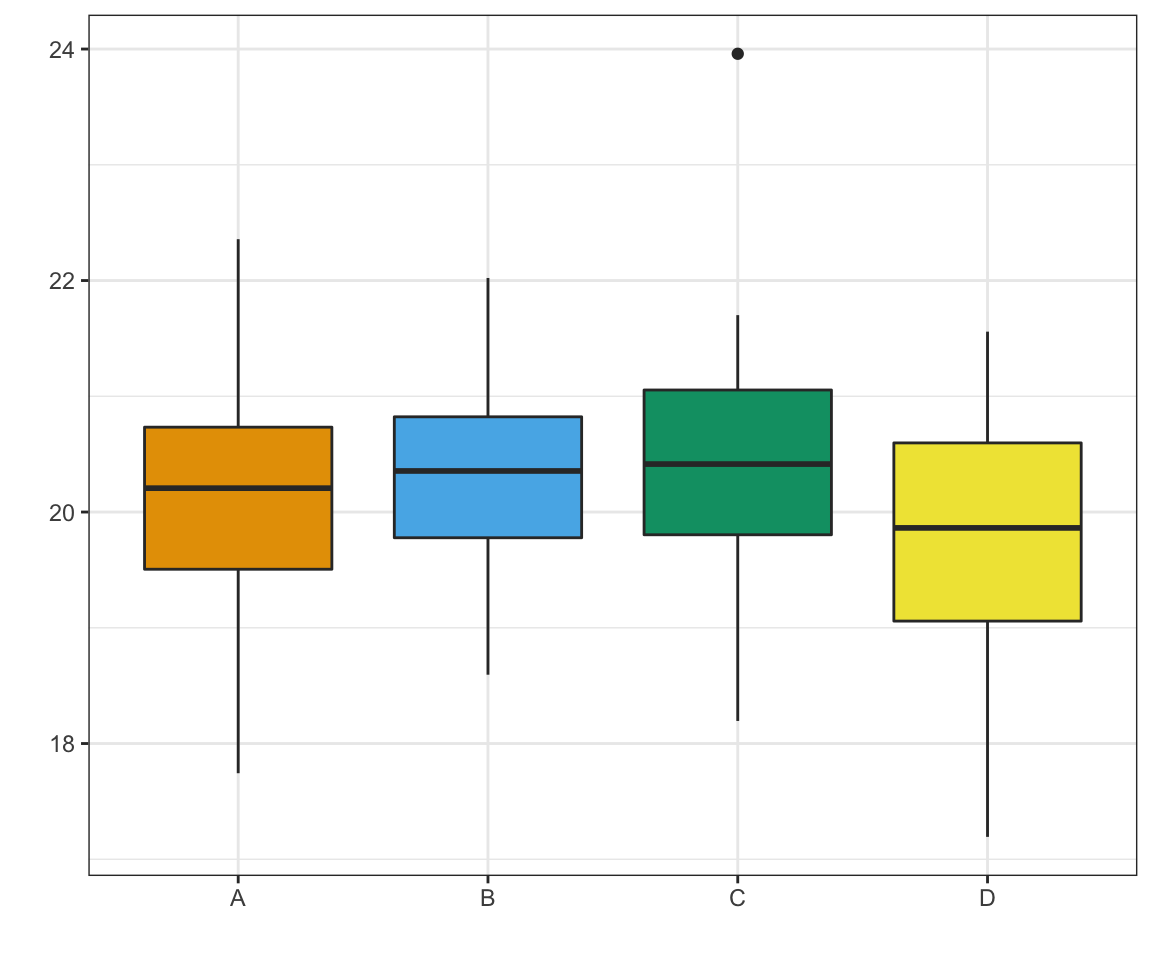
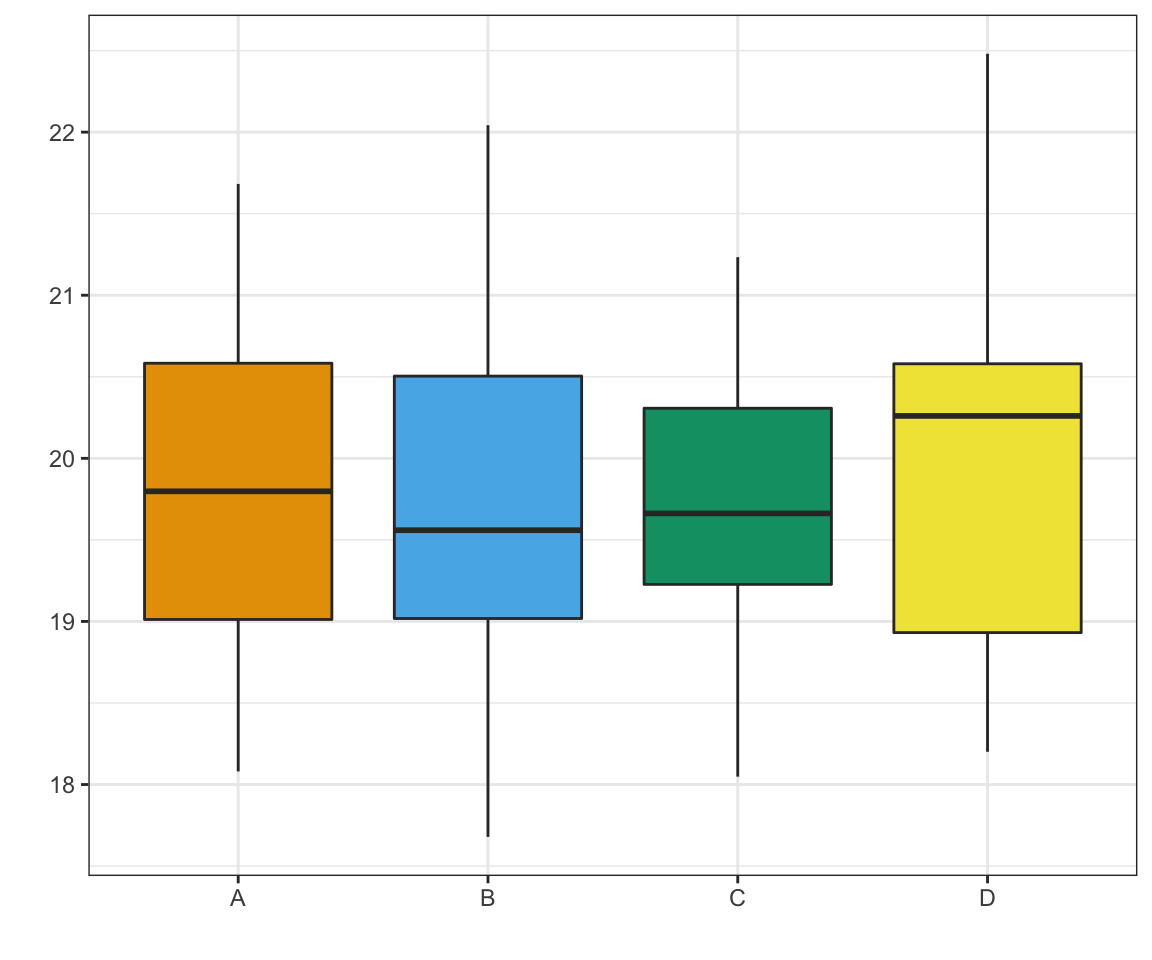
added text

diff --git a/docs/stat-tests-anova.html b/docs/stat-tests-anova.html
@@ -586,7 +586,7 @@ code span.wa { color: #60a0b0; font-weight: bold; font-style: italic; } /* Warni
 </header><div class="cell">
 
 </div>
-<p><em>Version vom November 21, 2022 um 09:40:26</em></p>
+<p><em>Version vom November 22, 2022 um 08:28:26</em></p>
 <div class="page-columns page-full"><p></p><div class="no-row-height column-margin column-container"><span class="aside">Historisch betrachtet ist die ANOVA, <em>das</em> statistische Verfahren was gut per Hand ohne Computer berechnet werden kann. Daher war die ANOVA von den 20zigern bis in die frühen 90ziger des letzten Jahrhunderts <em>das</em> statistische Verfahren der Wahl.</span></div></div>
 <p>Die ANOVA (eng. <em>analysis of variance</em>) ist wichtig. Was für ein schöner Satz um anzufangen. Wir brauchen die ANOVA aus mehreren Gründen. Die Hochzeiten der ANOVA sind eigentlich vorbei, wir haben in der Statistik für viele Fälle mittlerweile besser Werkzeuge, aber als Allrounder ist die ANOVA immer noch nutzbar. Wir werden immer wieder auf die ANOVA inhaltlich zurück kommen und in vielen Abschlussarbeiten wird die ANOVA immer noch als integraler Bestandteil genutzt.</p>
 
@@ -1369,6 +1369,26 @@ Entscheidung mit der berechneten Teststatistik <span class="math inline">\(F_{\b
 <p><strong>Achtung –</strong> Wir nutzen die Entscheidung mit der Teststatistik <em>nur und ausschließlich</em> in der Klausur. In der praktischen Anwendung hat die Betrachtung der berechneten Teststatistik <em>keine</em> Verwendung mehr. Wir nutzen in der praktischen Anwendung den <span class="math inline">\(p\)</span>-Wert.</p>
 </div>
 </div>
+<p>Abschließend noch ein Wort zu der Annahme an eine ANOVA. Wir wollen ja für eine ANOVA ein normalverteiltes Outcome <span class="math inline">\(y\)</span> und die gleichen Varianzen über alle Gruppen. Wir wollen Varianzhomogenität vorliegen haben. In <a href="#fig-anova-assumption">Abbildung&nbsp;<span>23.5</span></a> siehst du vier Behandlungsgruppen sowie deren lokale Mittel. Die Gruppe D hat eine sehr viel größere Varianz. Auch ist fraglich, ob die Gruppe D einer Normalverteilung folgt. Dadurch passieren zwei Dinge. Erstens ist der lokale Mittelwert von der Gruppe D viel näher am globalen Mittel als er eigentlich wäre, dadurch wird die <em>Summe</em> aus <span class="math inline">\(MS_{treatment}\)</span> kleiner. Zweitens sind die Beobachtungen sehr weit um das lokale Mittel gestreut, dadurch wird die <em>Summe</em> aus <span class="math inline">\(MS_{error}\)</span> viel größer. Wir erhalten dadurch eine sehr viel kleinere F Statistik. Im Prinzip vergleichst du mit einer ANOVA ein Set an gleich aussehenden Normalverteilungen. Wenn alles schief und krumm ist, dann ist es vermutlich sogar besser, als wenn wir eine total verkorkste Gruppenverteilung haben, wie hier in Beispiel D.</p>
+<div class="page-columns page-full"><p></p><div class="no-row-height column-margin column-container"><span class="aside">In <a href="eda-transform.html"><span>Kapitel&nbsp;17</span></a> kannst du nochmal über die <span class="math inline">\(\log\)</span>-Transformation vom Outcome <span class="math inline">\(y\)</span> nachlesen. Nach der <span class="math inline">\(\log\)</span>-Transformation können Daten dann <em>approximativ</em> normalverteilt sein.</span></div></div>
+<div id="fig-anova-assumption" class="quarto-figure quarto-figure-center anchored">
+<figure class="figure"><p><img src="images/anova-assumptions.png" class="img-fluid figure-img" style="width:100.0%"></p>
+<p></p><figcaption aria-hidden="true" class="figure-caption">Abbildung 23.5— Visualisierung der Annahmen an eine ANOVA. Wir berechnen den <span class="math inline">\(MS_{treatment}\)</span> in dem wir alle Abweichungen vom gloablen Mittel <span class="math inline">\(\bar{y}_{..}\)</span> aufaddieren. Ebenso berechnen wir den <span class="math inline">\(MS_{error}\)</span> indem wir die einzelen Abweichungen von den Bobachtungen zu den lokalen Mitteln berechnen. Hat jetzt eine Gruppe, wie die Gruppe D, eine abweichende Streuung, wird das <span class="math inline">\(MS_{error}\)</span> überproportional groß. Damit wird dann die F Statistik klein.</figcaption><p></p>
+</figure>
+</div>
+<p>Wir können das einmal numerisch mit einem kritischen Wert für <span class="math inline">\(F_{\alpha = 5\%} = 3.55\)</span> durchspielen. Nehmen wir folgende Summe für <span class="math inline">\(MS_{treatment}\)</span> aus den einzelnen <span class="math inline">\(MS\)</span> einmal an. Wir sehen dabei das die Gruppe F einen <span class="math inline">\(MS_D = 7\)</span> hat. Dieser Wert ist vermutlich zu klein.</p>
+<p><span class="math display">\[
+MS_{treatment} = 10 + 20 + 8 + 7 = 45
+\]</span></p>
+<p>Wenn wir jetzt die Summe für <span class="math inline">\(MS_{error}\)</span> berechnen, wird diese Summe sehr große, da die Gruppe D eine sehr große Varianz mit einbringt.</p>
+<p><span class="math display">\[
+MS_{error} = 5 + 6 + 4 + 20 = 35
+\]</span></p>
+<p>Das führt am Ende dazu, dass wir eine sehr kleine F Statistik erhalten. Auch wenn sich vielleicht Gruppe B von Gruppe C unterscheidet, können wir den Unterschied wegen der großen Varianz aus Gruppe D nicht nachweisen.</p>
+<p><span class="math display">\[
+F = \cfrac{MS_{treatment}}{MS_{error}} = \cfrac{45}{35} = 1.28 \leq 3.55
+\]</span></p>
+<p>Du siehst hier wie wichtig es ist, ich die Daten einmal zu visualisieren um zu sehen vorher mögliche Probleme herrühren können. Auf der anderen Seite können wir die ANOVA auf ein Recht breites Spektrum an Daten anwenden, solange wir wissen, das die Verteilungen in etwa für jede Gruppe gleich aussehen. Wir müssen nur mit dem <span class="math inline">\(\eta^2\)</span> aufpassen, wenn wir zu schiefe Verteilungen haben. Dann gibt uns <span class="math inline">\(\eta^2\)</span> keine valide Aussage mehr über den Anteil der erklärten Varianz.</p>
 </section><section id="einfaktoriellen-anova-in-r" class="level3 page-columns page-full" data-number="23.2.4"><h3 data-number="23.2.4" class="anchored" data-anchor-id="einfaktoriellen-anova-in-r">
 <span class="header-section-number">23.2.4</span> Einfaktoriellen ANOVA in R</h3>
 <div class="page-columns page-full"><p></p><div class="no-row-height column-margin column-container"><span class="aside">Um eine ANOVA zu rechnen nutzen wir <em>zuerst</em> die Funktion <code><a href="https://rdrr.io/r/stats/lm.html">lm()</a></code>, warum das so ist kannst du im <a href="stat-linear-reg-basic.html"><span>Kapitel&nbsp;32</span></a> nachlesen. Du brauchst das Wissen aber hier nicht unbedingt.</span></div></div>
@@ -1391,12 +1411,12 @@ Signif. codes:  0 '***' 0.001 '**' 0.01 '*' 0.05 '.' 0.1 ' ' 1</code></pre>
 </div>
 <p>Wir erhalten die Information was wir gerechnet haben, eine Varianzanalyse. Darunter steht, was das <span class="math inline">\(y\)</span> war nämlich die <code>jump_length</code>. Wir erhalten eine Zeile für den Faktor <code>animal</code> und damit die <span class="math inline">\(SS_{animal}\)</span> und eine Zeile für den Fehler und damit den <span class="math inline">\(SS_{error}\)</span>. In R heißen die <span class="math inline">\(SS_{error}\)</span> dann <code>Residuals</code>. Die Zeile für die <span class="math inline">\(SS_{total}\)</span> fehlt.</p>
 <p>Neben der berechneten F Statistik <span class="math inline">\(F_{calc}\)</span> von <span class="math inline">\(11.89\)</span> erhalten wir auch den p-Wert mit <span class="math inline">\(0.005\)</span>. Wir ignorieren die F Statistik, da wir in der Anwendung nur den p-Wert berücksichtigen. Die Entscheidung gegen die Nulhypothese lautet, dass wenn der p-Wert kleiner ist als das Signifkanzniveau <span class="math inline">\(\alpha\)</span> von 5% wir die Nullhypothese ablehnen.</p>
-<p>Wir haben hier ein signifikantes Ergebnis vorliegen. Mindestens ein Gruppenmittelerstunterschied ist signifikant. <a href="#fig-boxplot-anova-1">Abbildung&nbsp;<span>23.5</span></a> zeigt nochmal die Daten <code>fac1_tbl</code> als Boxplot. Wir überprüfen visuell, ob das Ergebnis der ANOVA stimmen kann. Ja, die Boxplots und das Ergebnis der ANOVA stimmen überein. Die Boxplots liegen nicht alle auf einer Ebene, so dass hier auch ein signifikanter Unterschied zu erwarten war.</p>
+<p>Wir haben hier ein signifikantes Ergebnis vorliegen. Mindestens ein Gruppenmittelerstunterschied ist signifikant. <a href="#fig-boxplot-anova-1">Abbildung&nbsp;<span>23.6</span></a> zeigt nochmal die Daten <code>fac1_tbl</code> als Boxplot. Wir überprüfen visuell, ob das Ergebnis der ANOVA stimmen kann. Ja, die Boxplots und das Ergebnis der ANOVA stimmen überein. Die Boxplots liegen nicht alle auf einer Ebene, so dass hier auch ein signifikanter Unterschied zu erwarten war.</p>
 <div class="cell" data-layout-align="center">
 <div class="cell-output-display">
 <div id="fig-boxplot-anova-1" class="quarto-figure quarto-figure-center anchored">
 <figure class="figure"><p><img src="stat-tests-anova_files/figure-html/fig-boxplot-anova-1-1.png" class="img-fluid figure-img" width="480"></p>
-<p></p><figcaption aria-hidden="true" class="figure-caption">Abbildung 23.5— Boxplot der Sprungweiten [cm] von Hunden-, Katzen- und Fuchsflöhen.</figcaption><p></p>
+<p></p><figcaption aria-hidden="true" class="figure-caption">Abbildung 23.6— Boxplot der Sprungweiten [cm] von Hunden-, Katzen- und Fuchsflöhen.</figcaption><p></p>
 </figure>
 </div>
 </div>
@@ -1510,12 +1530,12 @@ Einführung in die zweifaktorielle ANOVA per Video
 </div>
 </div>
 </div>
-<p>Die Beispieldaten sind in <a href="#fig-boxplot-anova-2">Abbildung&nbsp;<span>23.6</span></a> abgebildet. Wir sehen auf der x-Achse den Faktor <code>animal</code> mit den drei Leveln <code>dog</code>, <code>cat</code> und <code>fox</code>. Jeder dieser Faktorlevel hat nochmal einen Faktor in sich. Dieser Faktor lautet <code>site</code> und stellt dar, wo die Flöhe gesammelt wurden. Die vier Level des Faktors <code>site</code> sind <code>city</code>, <code>smalltown</code>, <code>village</code> und <code>field</code>.</p>
+<p>Die Beispieldaten sind in <a href="#fig-boxplot-anova-2">Abbildung&nbsp;<span>23.7</span></a> abgebildet. Wir sehen auf der x-Achse den Faktor <code>animal</code> mit den drei Leveln <code>dog</code>, <code>cat</code> und <code>fox</code>. Jeder dieser Faktorlevel hat nochmal einen Faktor in sich. Dieser Faktor lautet <code>site</code> und stellt dar, wo die Flöhe gesammelt wurden. Die vier Level des Faktors <code>site</code> sind <code>city</code>, <code>smalltown</code>, <code>village</code> und <code>field</code>.</p>
 <div class="cell" data-layout-align="center">
 <div class="cell-output-display">
 <div id="fig-boxplot-anova-2" class="quarto-figure quarto-figure-center anchored">
 <figure class="figure"><p><img src="stat-tests-anova_files/figure-html/fig-boxplot-anova-2-1.png" class="img-fluid figure-img" width="576"></p>
-<p></p><figcaption aria-hidden="true" class="figure-caption">Abbildung 23.6— Boxplot der Sprungweiten [cm] von Hunden und Katzen.</figcaption><p></p>
+<p></p><figcaption aria-hidden="true" class="figure-caption">Abbildung 23.7— Boxplot der Sprungweiten [cm] von Hunden und Katzen.</figcaption><p></p>
 </figure>
 </div>
 </div>
@@ -1787,7 +1807,7 @@ site      |           0.02 | [0.00, 1.00]
 jump\_length \sim animal + site + animal:site
 \]</span></p>
 <p>Wir bauen nun mit der obigen Formel ein lineares Modell mit der Funktion <code><a href="https://rdrr.io/r/stats/lm.html">lm()</a></code> in R. Es wieder das gleich wie schon zuvor. Danach pipen wir das Modell in die Funktion <code><a href="https://rdrr.io/r/stats/anova.html">anova()</a></code> wie auch in der einfaktoriellen Variante der ANOVA. Die Funktion bleibt die Gleiche, was sich ändert ist das Modell in der Funktion <code><a href="https://rdrr.io/r/stats/lm.html">lm()</a></code>. Auch die Interaktion müssen wir nicht extra in der ANOVA Funktion angeben. Alles wird im Modell des <code><a href="https://rdrr.io/r/stats/lm.html">lm()</a></code> abgebildet.</p>
-<p>Die visuelle Regel zur Überprüfung der Interaktion lautet nun wie folgt. <a href="#fig-anova-inter-example">Abbildung&nbsp;<span>23.7</span></a> zeigt die entsprechende Vislualisierung. Wir haben keine Interaktion vorliegen, wenn die Geraden parallel zueinander laufen und die Abstände bei bei jedem Faktorlevel gleich sind. Wir schauen uns im Prinzip die erste Faktorstufe auf der x-Achse an. Wir sehen den Abstand von der roten zu blauen Linie sowie das die blaue Gerade über der roten Gerade liegt. Dieses Muster erwarten wir jetzt auch an dem Faktorlevel B und C. Eine leichte bis mittlere Interaktion liegt vor, wenn sich die Abstände von dem zweiten Faktor über die Faktorstufen des ersten Faktors ändern. Eine starke Interaktion liegt vor, wenn sich die Geraden schneiden.</p>
+<p>Die visuelle Regel zur Überprüfung der Interaktion lautet nun wie folgt. <a href="#fig-anova-inter-example">Abbildung&nbsp;<span>23.8</span></a> zeigt die entsprechende Vislualisierung. Wir haben keine Interaktion vorliegen, wenn die Geraden parallel zueinander laufen und die Abstände bei bei jedem Faktorlevel gleich sind. Wir schauen uns im Prinzip die erste Faktorstufe auf der x-Achse an. Wir sehen den Abstand von der roten zu blauen Linie sowie das die blaue Gerade über der roten Gerade liegt. Dieses Muster erwarten wir jetzt auch an dem Faktorlevel B und C. Eine leichte bis mittlere Interaktion liegt vor, wenn sich die Abstände von dem zweiten Faktor über die Faktorstufen des ersten Faktors ändern. Eine starke Interaktion liegt vor, wenn sich die Geraden schneiden.</p>
 <div id="fig-anova-inter-example" class="cell column-page quarto-layout-panel">
 <figure class="figure"><div class="quarto-layout-row quarto-layout-valign-top">
 <div class="cell-output-display quarto-layout-cell quarto-layout-cell-subref" style="flex-basis: 33.3%;justify-content: center;">
@@ -1812,10 +1832,10 @@ jump\_length \sim animal + site + animal:site
 </div>
 </div>
 </div>
-<p></p><figcaption aria-hidden="true" class="figure-caption">Abbildung 23.7— Darstellung von keiner Interaktion, leichter bis mittler Interaktion und starker Interaktion in einer zweifaktoriellen ANOVA mit einem Faktor mit drei Leveln A, B und C sowie einem Faktor mit zwei Leveln (rot und blau).</figcaption><p></p>
+<p></p><figcaption aria-hidden="true" class="figure-caption">Abbildung 23.8— Darstellung von keiner Interaktion, leichter bis mittler Interaktion und starker Interaktion in einer zweifaktoriellen ANOVA mit einem Faktor mit drei Leveln A, B und C sowie einem Faktor mit zwei Leveln (rot und blau).</figcaption><p></p>
 </figure>
 </div>
-<p>In der <a href="#fig-interact-anova-1">Abbildung&nbsp;<span>23.8</span></a> sehen wir den Interaktionsplot für unser Beispiel. Auf der y-Achse ist die Sprunglänge abgebildet und auf der x-Achse der Faktor <code>animal</code>. Die einzelnen Farben stellen die Level des Faktor <code>site</code> dar.</p>
+<p>In der <a href="#fig-interact-anova-1">Abbildung&nbsp;<span>23.9</span></a> sehen wir den Interaktionsplot für unser Beispiel. Auf der y-Achse ist die Sprunglänge abgebildet und auf der x-Achse der Faktor <code>animal</code>. Die einzelnen Farben stellen die Level des Faktor <code>site</code> dar.</p>
 <div class="cell" data-layout-align="center">
 <div class="sourceCode" id="cb15"><pre class="downlit sourceCode r code-with-copy"><code class="sourceCode R"><span><span class="fu">ggplot</span><span class="op">(</span><span class="va">fac2_tbl</span>, <span class="fu">aes</span><span class="op">(</span>x <span class="op">=</span> <span class="va">animal</span>, y <span class="op">=</span> <span class="va">jump_length</span>,</span>
 <span>                     color <span class="op">=</span> <span class="va">site</span>, group <span class="op">=</span> <span class="va">site</span><span class="op">)</span><span class="op">)</span> <span class="op">+</span></span>
@@ -1826,7 +1846,7 @@ jump\_length \sim animal + site + animal:site
 <div class="cell-output-display">
 <div id="fig-interact-anova-1" class="quarto-figure quarto-figure-center anchored">
 <figure class="figure"><p><img src="stat-tests-anova_files/figure-html/fig-interact-anova-1-1.png" class="img-fluid figure-img" width="576"></p>
-<p></p><figcaption aria-hidden="true" class="figure-caption">Abbildung 23.8— Boxplot der Sprungweiten [cm] von Hunden und Katzen.</figcaption><p></p>
+<p></p><figcaption aria-hidden="true" class="figure-caption">Abbildung 23.9— Boxplot der Sprungweiten [cm] von Hunden und Katzen.</figcaption><p></p>
 </figure>
 </div>
 </div>
